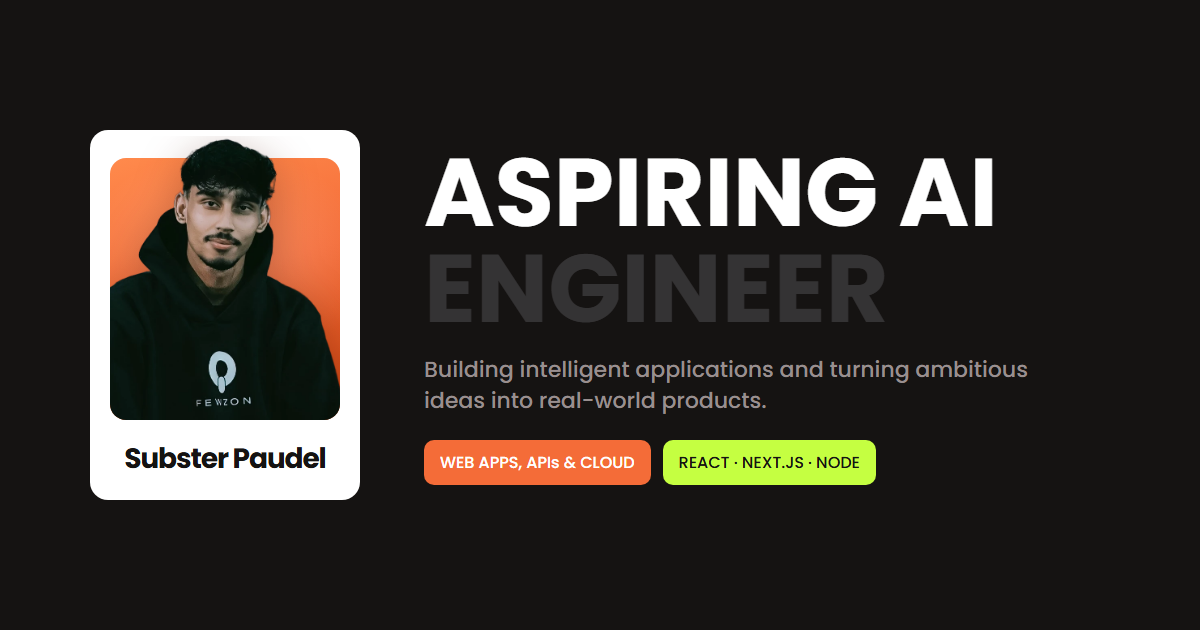
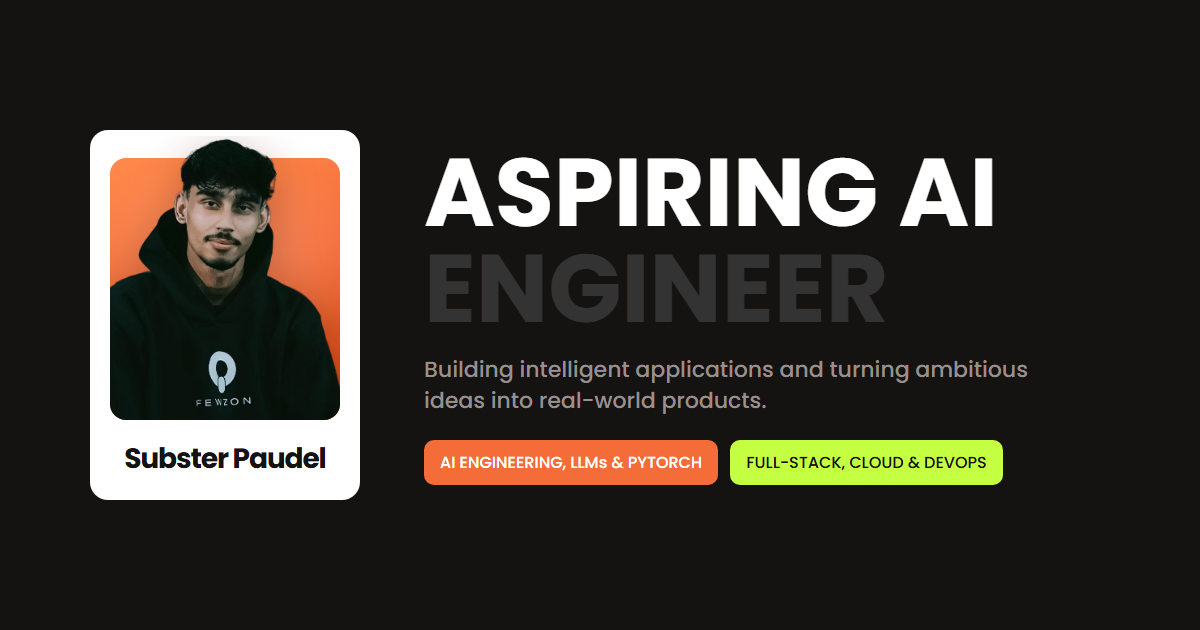
Update hero skill cards to AI engineering and full-stack focus
Orange card: AI engineering, LLMs & PyTorch / RAG, AI agents & model
inference. Lime card: full-stack, cloud & DevOps / Next.js, TypeScript,
Python & AWS. Cards now grow with longer titles (balanced line wraps,
space reserved for the arrow), and the social preview image matches.

Changed region(s): [[0.37, 0.6937, 0.8633, 0.7841]]

diff --git a/app/globals.css b/app/globals.css
@@ -428,11 +428,13 @@ section[id] { scroll-margin-top: 100px; }
 }
 
 /* Skill cards */
+/* Cards are at least 240px tall (reference) but grow with longer titles;
+   both stretch to the taller one. */
 .skill-cards {
   display: flex;
   gap: 30px;
   width: 100%;
-  height: 240px;
+  min-height: 240px;
 }
 
 .skill-card {
@@ -440,8 +442,8 @@ section[id] { scroll-margin-top: 100px; }
   display: flex;
   flex-direction: column;
   gap: 24px;
-  height: 100%;
-  padding: 40px 20px 22px;
+  /* bottom padding keeps text clear of the 32px arrow button */
+  padding: 40px 20px 66px;
   border-radius: var(--radius);
   overflow: hidden;
   isolation: isolate;
@@ -513,6 +515,12 @@ section[id] { scroll-margin-top: 100px; }
   font-size: 24px;
   font-weight: 500;
   line-height: 1.1;
+}
+
+/* one block per line; a long line wraps into evenly sized rows */
+.skill-card__line {
+  display: block;
+  text-wrap: balance;
 }
 
 .skill-card__arrow {
@@ -1063,7 +1071,7 @@ section[id] { scroll-margin-top: 100px; }
   .display { font-size: 94px; }
   .heading { font-size: 74px; }
   .stat__value { font-size: 60px; }
-  .skill-cards { gap: 20px; height: 260px; }
+  .skill-cards { gap: 20px; min-height: 260px; }
   .skill-card--orange { width: 260px; }
   .section { padding-top: 90px; }
   .row__title { font-size: 20px; }
@@ -1118,7 +1126,7 @@ section[id] { scroll-margin-top: 100px; }
   .list, .tools, .form, .skill-cards { width: 100%; text-align: left; }
   .form { max-width: none; }
 
-  .skill-cards { height: 240px; }
+  .skill-cards { min-height: 240px; }
   .skill-card--orange { width: 300px; }
 
   .tools { grid-template-columns: repeat(3, minmax(220px, 1fr)); }
@@ -1162,7 +1170,7 @@ section[id] { scroll-margin-top: 100px; }
   .stat__label { font-size: 14px; }
 
   .skill-cards { flex-direction: column; align-items: center; gap: 20px; height: auto; }
-  .skill-card { width: 100%; max-width: 350px; height: auto; min-height: 200px; flex: none; padding: 30px 20px 20px; }
+  .skill-card { width: 100%; max-width: 350px; min-height: 200px; flex: none; padding: 30px 20px 62px; }
 
   .section { padding-top: 80px; gap: 20px; }
   #contact.section { gap: 20px; }

diff --git a/lib/data.ts b/lib/data.ts
@@ -56,10 +56,21 @@ export const stats: { value: string; label: [string, string] }[] = [
   { value: '10+', label: ['Projects', 'Completed'] },
 ];
 
-/** Written in capitals on purpose (the design uses uppercase; CSS would turn "APIs" into "APIS") */
+/** Written in capitals on purpose (the design uses uppercase; CSS would turn "LLMs" into "LLMS").
+ *  Each entry is one line; long lines wrap evenly inside the card. */
 export const skills: { tone: 'orange' | 'lime'; icon: IconName; title: [string, string]; href: string }[] = [
-  { tone: 'orange', icon: 'layers', title: ['WEB APPS,', 'APIs & CLOUD'], href: '/#projects' },
-  { tone: 'lime', icon: 'layout', title: ['REACT, NEXT.JS,', 'NODE, TYPESCRIPT'], href: '/#tools' },
+  {
+    tone: 'orange',
+    icon: 'layers',
+    title: ['AI ENGINEERING, LLMs & PYTORCH', 'RAG, AI AGENTS & MODEL INFERENCE'],
+    href: '/#projects',
+  },
+  {
+    tone: 'lime',
+    icon: 'layout',
+    title: ['FULL-STACK, CLOUD & DEVOPS', 'NEXT.JS, TYPESCRIPT, PYTHON & AWS'],
+    href: '/#tools',
+  },
 ];
 
 /** A transparent logo shown centred on a coloured tile (thumbnail and page cover). */

diff --git a/components/Hero.tsx b/components/Hero.tsx
@@ -49,9 +49,11 @@ export default function Hero() {
             </svg>
             <Icon name={card.icon} className="skill-card__icon" />
             <span className="skill-card__title">
-              {card.title[0]}
-              <br />
-              {card.title[1]}
+              {card.title.map((line) => (
+                <span className="skill-card__line" key={line}>
+                  {line}
+                </span>
+              ))}
             </span>
             <span className="skill-card__arrow" aria-hidden="true">
               <Icon name="arrowRight" />
